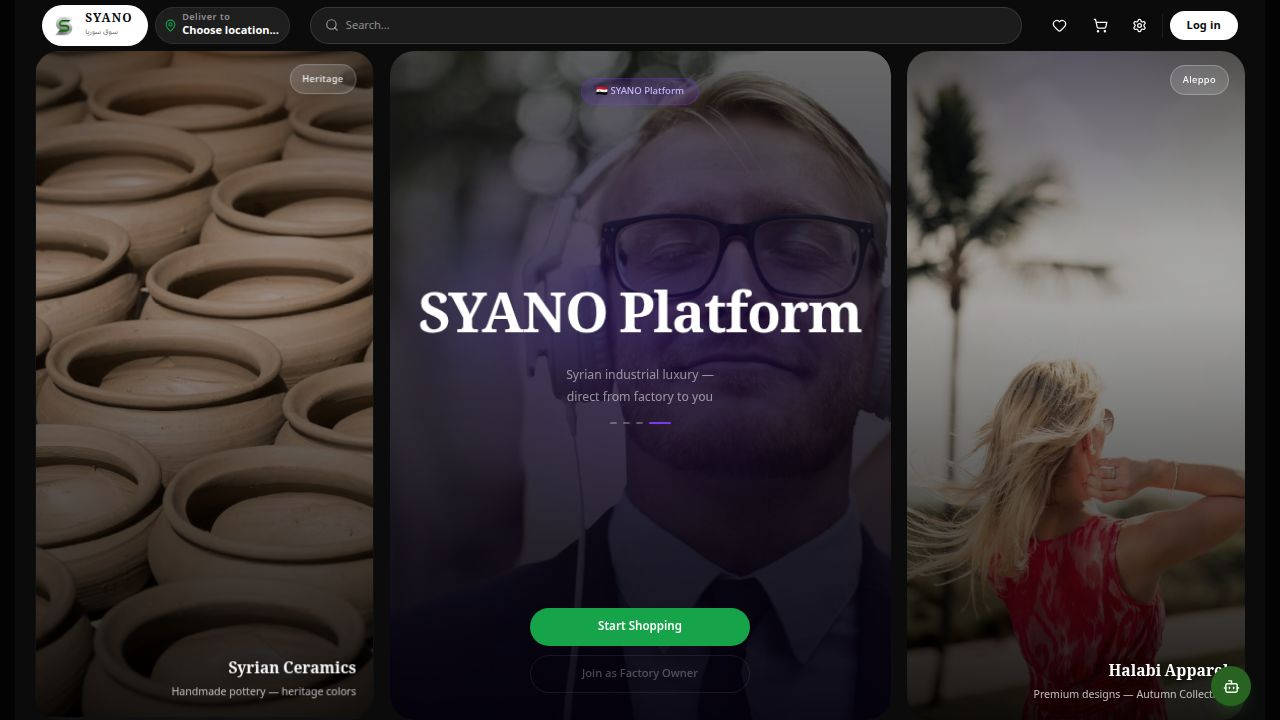
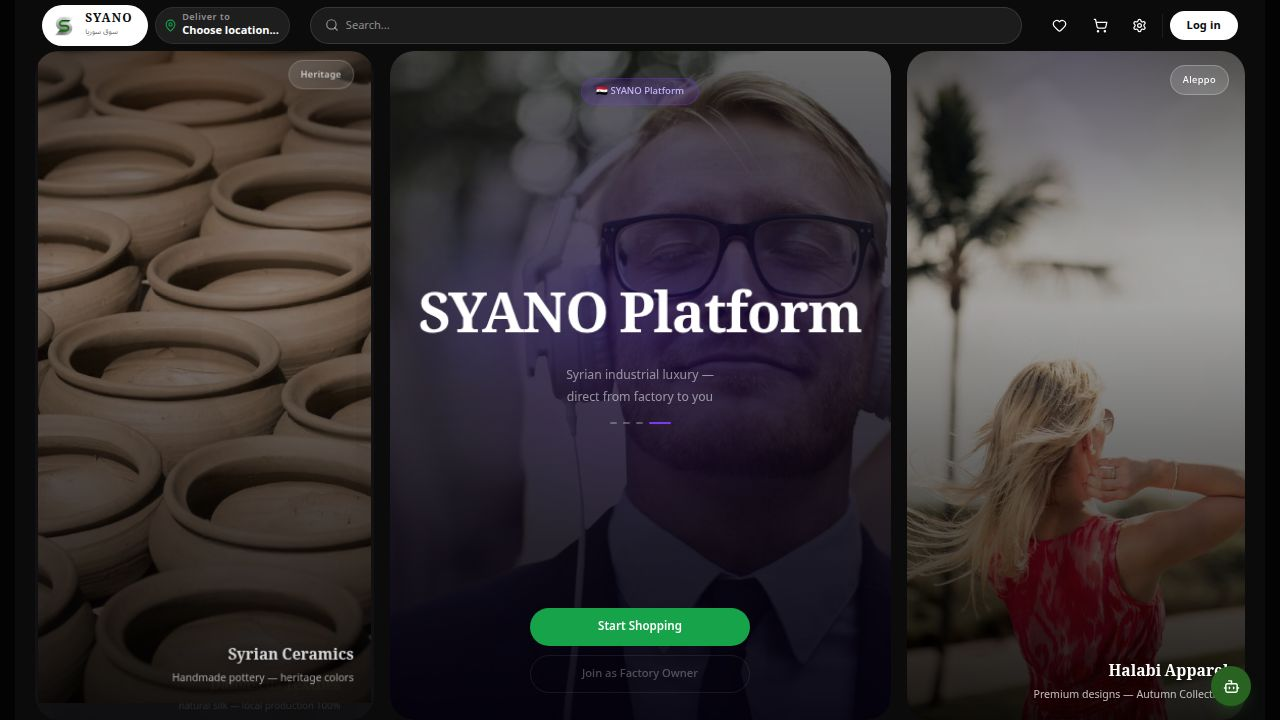
Add a route for products and update navigation logic
Add a new route for the products page and replace a hardcoded navigation call with a router hook. Update Vite configuration to include API proxy for preview builds.

Replit-Commit-Author: Agent
Replit-Commit-Session-Id: 00860245-143c-4784-b9cf-687e5c8b3fea
Replit-Commit-Checkpoint-Type: full_checkpoint
Replit-Commit-Event-Id: 07f876de-f9e3-4149-8839-e5fb9c70342e
Replit-Commit-Screenshot-Url: https://storage.googleapis.com/screenshot-production-us-central1/9235c95e-e4b8-4b4d-a7af-f2245e31ed87/00860245-143c-4784-b9cf-687e5c8b3fea/ps5CZKB
Replit-Helium-Checkpoint-Created: true

diff --git a/artifacts/marketplace/src/providers/NotificationProvider.tsx b/artifacts/marketplace/src/providers/NotificationProvider.tsx
@@ -10,6 +10,7 @@ import {
   type ReactNode,
 } from "react";
 import { useQueryClient } from "@tanstack/react-query";
+import { useLocation } from "wouter";
 import { useAuth } from "@/contexts/AuthContext";
 import {
   getGetNotificationCountQueryKey,
@@ -49,6 +50,7 @@ function durationMs(priority: string): number {
 export function NotificationProvider({ children }: { children: ReactNode }) {
   const { isAuthenticated, logout, refreshAuth } = useAuth();
   const queryClient = useQueryClient();
+  const [, setLocation] = useLocation();
   const [toasts, setToasts] = useState<ToastItem[]>([]);
   const esRef = useRef<EventSource | null>(null);
   const retryRef = useRef<ReturnType<typeof setTimeout> | null>(null);
@@ -121,7 +123,7 @@ export function NotificationProvider({ children }: { children: ReactNode }) {
         es.close();
         esRef.current = null;
         logout();
-        window.location.replace("/account-suspended");
+        setLocation("/account-suspended");
       });
 
       /* Server sends "connected" with the authenticated userId so the client

diff --git a/artifacts/marketplace/vite.config.ts b/artifacts/marketplace/vite.config.ts
@@ -123,8 +123,9 @@ export default defineConfig({
     host: "0.0.0.0",
     allowedHosts: true,
     // Same proxy rules for `vite preview` so staging/preview builds also get
-    // dynamic sitemaps when the API server is running alongside.
+    // dynamic sitemaps and API calls when the API server is running alongside.
     proxy: {
+      "/api": { target: "http://localhost:8080", changeOrigin: true },
       "/sitemap.xml":            { target: `http://localhost:${process.env.API_PORT ?? 8080}`, changeOrigin: true },
       "/sitemap-index.xml":      { target: `http://localhost:${process.env.API_PORT ?? 8080}`, changeOrigin: true },
       "/sitemap-pages.xml":      { target: `http://localhost:${process.env.API_PORT ?? 8080}`, changeOrigin: true },

diff --git a/artifacts/marketplace/src/App.tsx b/artifacts/marketplace/src/App.tsx
@@ -265,6 +265,7 @@ function Router() {
             <Route path="/shop" component={SearchPage} />
             <Route path="/search" component={SearchPage} />
             <Route path="/products" component={SearchPage} />
+            <Route path="/products/list" component={Products} />
             <Route path="/categories" component={CategoriesPage} />
             <Route path="/products/:id" component={ProductDetail} />
 